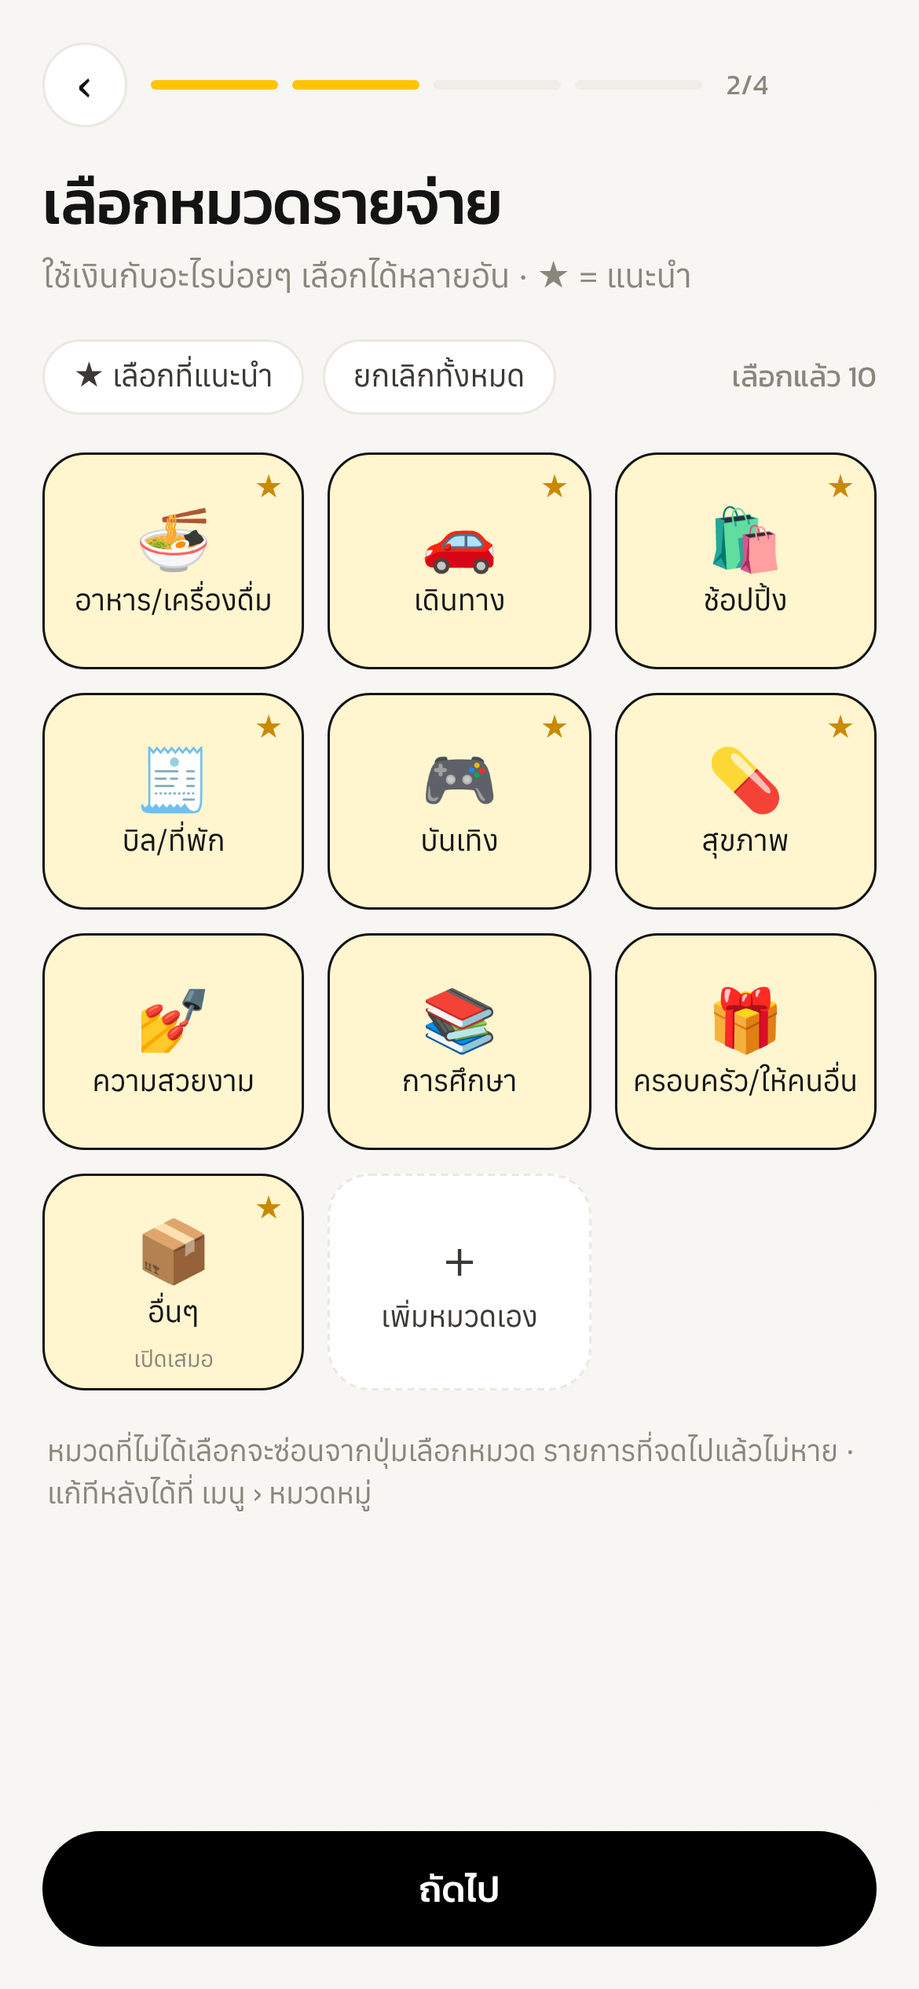
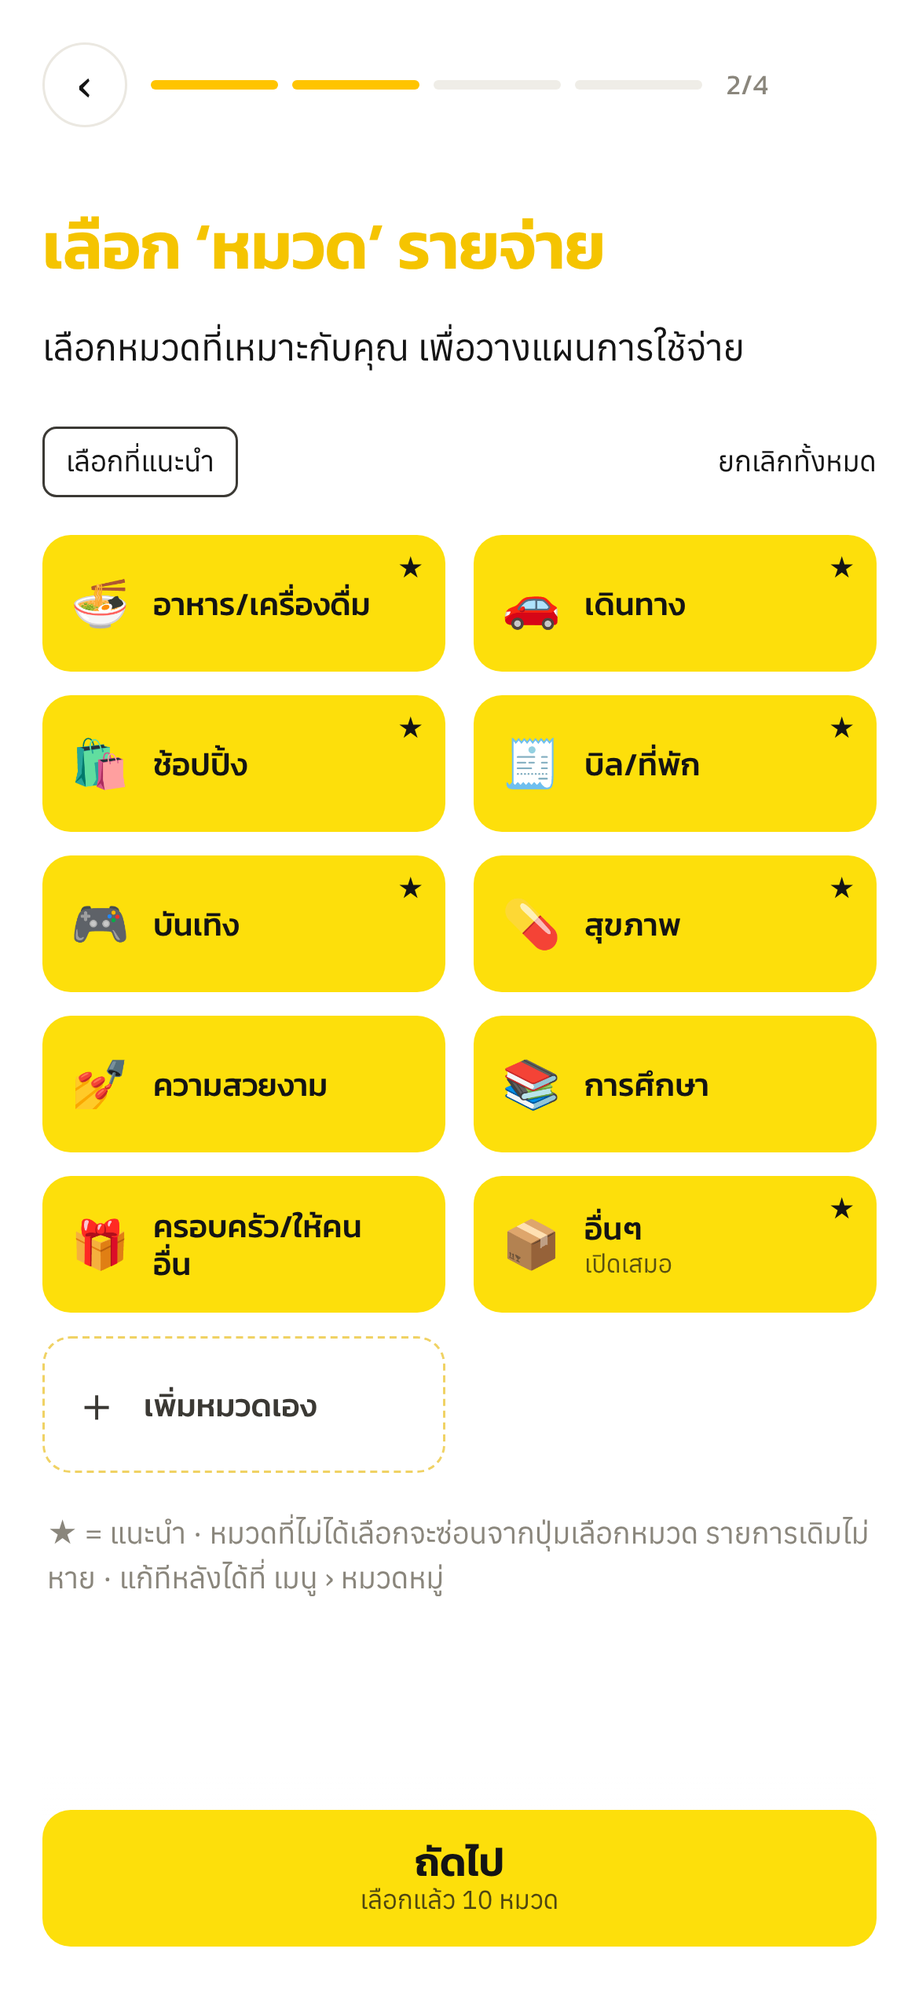
Onboarding source and category screens follow the new design
- Source step: full yellow panel, white cards with brand logos (Simple Icons, CC0)
- Category steps: two-column cards, yellow (expense) or black (income) when picked,
  pale yellow when not, big footer button with the picked count

Claude-Session: https://claude.ai/code/session_015tPG4ihv4SHZFFUdV6FxEj

diff --git a/public/js/onboard.js b/public/js/onboard.js
@@ -4,13 +4,25 @@ import { money } from '../core/format.js';
 
 const esc = (s) => String(s ?? '').replace(/[&<>"']/g, (c) => ({ '&': '&amp;', '<': '&lt;', '>': '&gt;', '"': '&quot;', "'": '&#39;' })[c]);
 
+// โลโก้ช่องทาง (Simple Icons CC0 + สีแบรนด์) วาดเป็น SVG ในกรอบ 48×48
+const TT = 'M12.525.02c1.31-.02 2.61-.01 3.91-.02.08 1.53.63 3.09 1.75 4.17 1.12 1.11 2.7 1.62 4.24 1.79v4.03c-1.44-.05-2.89-.35-4.2-.97-.57-.26-1.1-.59-1.62-.93-.01 2.92.01 5.84-.02 8.75-.08 1.4-.54 2.79-1.35 3.94-1.31 1.92-3.58 3.17-5.91 3.21-1.43.08-2.86-.31-4.08-1.03-2.02-1.19-3.44-3.37-3.65-5.71-.02-.5-.03-1-.01-1.49.18-1.9 1.12-3.72 2.58-4.96 1.66-1.44 3.98-2.13 6.15-1.72.02 1.48-.04 2.96-.04 4.44-.99-.32-2.15-.23-3.02.37-.63.41-1.11 1.04-1.36 1.75-.21.51-.15 1.07-.14 1.61.24 1.64 1.82 3.02 3.5 2.87 1.12-.01 2.19-.66 2.77-1.61.19-.33.4-.67.41-1.06.1-1.79.06-3.57.07-5.36.01-4.03-.01-8.05.02-12.07z';
+const IG = 'M7.0301.084c-1.2768.0602-2.1487.264-2.911.5634-.7888.3075-1.4575.72-2.1228 1.3877-.6652.6677-1.075 1.3368-1.3802 2.127-.2954.7638-.4956 1.6365-.552 2.914-.0564 1.2775-.0689 1.6882-.0626 4.947.0062 3.2586.0206 3.6671.0825 4.9473.061 1.2765.264 2.1482.5635 2.9107.308.7889.72 1.4573 1.388 2.1228.6679.6655 1.3365 1.0743 2.1285 1.38.7632.295 1.6361.4961 2.9134.552 1.2773.056 1.6884.069 4.9462.0627 3.2578-.0062 3.668-.0207 4.9478-.0814 1.28-.0607 2.147-.2652 2.9098-.5633.7889-.3086 1.4578-.72 2.1228-1.3881.665-.6682 1.0745-1.3378 1.3795-2.1284.2957-.7632.4966-1.636.552-2.9124.056-1.2809.0692-1.6898.063-4.948-.0063-3.2583-.021-3.6668-.0817-4.9465-.0607-1.2797-.264-2.1487-.5633-2.9117-.3084-.7889-.72-1.4568-1.3876-2.1228C21.2982 1.33 20.628.9208 19.8378.6165 19.074.321 18.2017.1197 16.9244.0645 15.6471.0093 15.236-.005 11.977.0014 8.718.0076 8.31.0215 7.0301.0839m.1402 21.6932c-1.17-.0509-1.8053-.2453-2.2287-.408-.5606-.216-.96-.4771-1.3819-.895-.422-.4178-.6811-.8186-.9-1.378-.1644-.4234-.3624-1.058-.4171-2.228-.0595-1.2645-.072-1.6442-.079-4.848-.007-3.2037.0053-3.583.0607-4.848.05-1.169.2456-1.805.408-2.2282.216-.5613.4762-.96.895-1.3816.4188-.4217.8184-.6814 1.3783-.9003.423-.1651 1.0575-.3614 2.227-.4171 1.2655-.06 1.6447-.072 4.848-.079 3.2033-.007 3.5835.005 4.8495.0608 1.169.0508 1.8053.2445 2.228.408.5608.216.96.4754 1.3816.895.4217.4194.6816.8176.9005 1.3787.1653.4217.3617 1.056.4169 2.2263.0602 1.2655.0739 1.645.0796 4.848.0058 3.203-.0055 3.5834-.061 4.848-.051 1.17-.245 1.8055-.408 2.2294-.216.5604-.4763.96-.8954 1.3814-.419.4215-.8181.6811-1.3783.9-.4224.1649-1.0577.3617-2.2262.4174-1.2656.0595-1.6448.072-4.8493.079-3.2045.007-3.5825-.006-4.848-.0608M16.953 5.5864A1.44 1.44 0 1 0 18.39 4.144a1.44 1.44 0 0 0-1.437 1.4424M5.8385 12.012c.0067 3.4032 2.7706 6.1557 6.173 6.1493 3.4026-.0065 6.157-2.7701 6.1506-6.1733-.0065-3.4032-2.771-6.1565-6.174-6.1498-3.403.0067-6.156 2.771-6.1496 6.1738M8 12.0077a4 4 0 1 1 4.008 3.9921A3.9996 3.9996 0 0 1 8 12.0077';
+const SRC_ICON = {
+  friend: '<svg viewBox="0 0 48 48" fill="none" stroke="#f5c400" stroke-width="3" stroke-linecap="round"><circle cx="20" cy="17" r="6.5"/><circle cx="30.5" cy="14.5" r="5"/><path d="M8 38c0-7.2 5.4-12 12-12s12 4.8 12 12"/><path d="M29 24.5c6.2-.6 11 3.6 11 10.5"/></svg>',
+  tiktok: `<svg viewBox="0 0 48 48"><rect width="48" height="48" rx="11" fill="#161823"/><g transform="translate(12 11.5) scale(1.05)"><path d="${TT}" fill="#25F4EE" transform="translate(-.7 -.5)"/><path d="${TT}" fill="#FE2C55" transform="translate(.7 .5)"/><path d="${TT}" fill="#fff"/></g></svg>`,
+  facebook: '<svg viewBox="0 0 48 48"><rect width="48" height="48" rx="11" fill="#1877F2"/><path fill="#fff" d="M31.5 15.2h-3.4c-1.3 0-1.9.8-1.9 2v3.4h5.2l-.8 5.3h-4.4V42h-5.9V25.9H17v-5.3h3.3v-3.9c0-4.6 2.7-7.3 7-7.3 1.9 0 3.6.2 4.2.3z"/></svg>',
+  instagram: `<svg viewBox="0 0 48 48"><defs><radialGradient id="ig-g" cx=".3" cy="1.07" r="1.2"><stop offset="0" stop-color="#FDD86C"/><stop offset=".25" stop-color="#FB8B2E"/><stop offset=".5" stop-color="#E1306C"/><stop offset=".75" stop-color="#C13584"/><stop offset="1" stop-color="#5B51D8"/></radialGradient></defs><rect width="48" height="48" rx="11" fill="url(#ig-g)"/><path d="${IG}" fill="#fff" transform="translate(10 10) scale(1.1667)"/></svg>`,
+  google: '<svg viewBox="0 0 24 24"><path fill="#4285F4" d="M23.49 12.27c0-.79-.07-1.54-.19-2.27H12v4.51h6.47c-.29 1.48-1.14 2.73-2.4 3.58v3h3.86c2.26-2.09 3.56-5.17 3.56-8.82z"/><path fill="#34A853" d="M12 24c3.24 0 5.95-1.08 7.93-2.91l-3.86-3c-1.08.72-2.45 1.16-4.07 1.16-3.13 0-5.78-2.11-6.73-4.96H1.29v3.09C3.26 21.3 7.31 24 12 24z"/><path fill="#FBBC05" d="M5.27 14.29c-.25-.72-.38-1.49-.38-2.29s.14-1.57.38-2.29V6.62H1.29C.47 8.24 0 10.06 0 12s.47 3.76 1.29 5.38l3.98-3.09z"/><path fill="#EA4335" d="M12 4.75c1.77 0 3.35.61 4.6 1.8l3.42-3.42C17.95 1.19 15.24 0 12 0 7.31 0 3.26 2.7 1.29 6.62l3.98 3.09c.95-2.85 3.6-4.96 6.73-4.96z"/></svg>',
+  other: '<svg viewBox="0 0 48 48" fill="none" stroke="#f5c400" stroke-width="3"><circle cx="11" cy="24" r="4.5"/><circle cx="24" cy="24" r="4.5"/><circle cx="37" cy="24" r="4.5"/></svg>',
+};
+
 export const HEARD = [
-  ['friend', 'คนรู้จัก', '👥'],
-  ['tiktok', 'TikTok', '🎵'],
-  ['facebook', 'Facebook', '📘'],
-  ['instagram', 'Instagram', '📸'],
-  ['google', 'Google', '🔎'],
-  ['other', 'อื่นๆ', '✨'],
+  ['friend', 'คนรู้จัก'],
+  ['tiktok', 'TikTok'],
+  ['facebook', 'Facebook'],
+  ['instagram', 'Instagram'],
+  ['google', 'Google'],
+  ['other', 'อื่นๆ'],
 ];
 const FALLBACK = { expense: 'other', income: 'other_income' };
 const CYCLES = [1, 15, 25, 26, 28, 30];
@@ -93,9 +105,9 @@ const FEATURES = [
 
 function catChip(c, on, type) {
   const fixed = c.id === FALLBACK[type];
-  return `<button class="ob-cat ${on ? 'is-on' : ''} ${fixed ? 'is-fixed' : ''}" data-act="obcat" data-id="${esc(c.id)}" aria-pressed="${on}" ${fixed ? 'disabled title="หมวดสำรอง เปิดไว้เสมอ"' : ''}>
-    ${c.recommended ? '<em class="ob-star" aria-label="แนะนำ">★</em>' : ''}${c.custom ? `<em class="ob-del" data-act="obdelcat" data-id="${esc(c.id)}" aria-label="ลบหมวด ${esc(c.name)}">✕</em>` : ''}
-    <span class="ob-emo">${esc(c.emoji)}</span><span class="ob-name">${esc(c.name)}</span></button>`;
+  return `<button class="ob-cat ${on ? 'is-on' : ''} ${fixed ? 'is-fixed' : ''}" data-act="obcat" data-id="${esc(c.id)}" aria-pressed="${on}" ${fixed ? 'aria-disabled="true" title="หมวดสำรอง เปิดไว้เสมอ"' : ''}>
+    <span class="ob-emo" aria-hidden="true">${esc(c.emoji)}</span><span class="ob-name">${esc(c.name)}${fixed ? '<small>เปิดเสมอ</small>' : ''}</span>
+    ${c.recommended ? '<em class="ob-star" aria-label="แนะนำ">★</em>' : ''}${c.custom ? `<em class="ob-del" data-act="obdelcat" data-id="${esc(c.id)}" role="button" aria-label="ลบหมวด ${esc(c.name)}">✕</em>` : ''}</button>`;
 }
 
 function catStep(ob, data, type) {
@@ -104,16 +116,17 @@ function catStep(ob, data, type) {
   const own = ob.custom.filter((c) => c.type === type).map((c) => ({ ...c, custom: true }));
   const list = [...base.filter((c) => c.id !== FALLBACK[type]), ...own, base.find((c) => c.id === FALLBACK[type])];
   const count = list.filter((c) => c.custom || ob.enabled.has(c.id)).length;
-  return `${head(ob, inc ? 'เลือกหมวดรายรับ' : 'เลือกหมวดรายจ่าย', `${inc ? 'เงินเข้ามาจากทางไหนบ้าง' : 'ใช้เงินกับอะไรบ่อยๆ'} เลือกได้หลายอัน · ★ = แนะนำ`)}
-    <div class="ob-tools"><button class="mt-chip" data-act="obrec" data-v="${type}">★ เลือกที่แนะนำ</button><button class="mt-chip" data-act="obnone" data-v="${type}">ยกเลิกทั้งหมด</button><span class="mt-sub num">เลือกแล้ว ${count}</span></div>
-    <div class="ob-cats ${inc ? 'is-inc' : ''}">${list.map((c) => catChip(c, c.custom || ob.enabled.has(c.id), type)).join('')}
+  const last = inc && ob.mode === 'cats';
+  return `${head(ob, `เลือก ‘หมวด’ ${inc ? 'รายรับ' : 'รายจ่าย'}`, inc ? 'เลือกหมวดที่เหมาะกับคุณ เพื่อติดตามรายได้' : 'เลือกหมวดที่เหมาะกับคุณ เพื่อวางแผนการใช้จ่าย')}
+    <div class="ob-tools"><button class="ob-tool-rec" data-act="obrec" data-v="${type}">เลือกที่แนะนำ</button><button class="ob-tool-none" data-act="obnone" data-v="${type}">ยกเลิกทั้งหมด</button></div>
+    <div class="ob-cats ${inc ? 'is-inc' : 'is-exp'}">${list.map((c) => catChip(c, c.custom || ob.enabled.has(c.id), type)).join('')}
       ${
         ob.adding === type
           ? `<form class="ob-add" data-form="obcat"><input name="emoji" aria-label="อีโมจิ" placeholder="${inc ? '💰' : '🏷'}" maxlength="4"><input name="name" aria-label="ชื่อหมวด" placeholder="ชื่อหมวด เช่น ${inc ? 'ค่าเช่าห้อง' : 'ค่าแมว'}" maxlength="24" required><button class="mt-btn-s" type="submit">เพิ่ม</button></form>`
-          : `<button class="ob-cat is-new" data-act="obadd" data-v="${type}"><span class="ob-emo">＋</span><span class="ob-name">เพิ่มหมวดเอง</span></button>`
+          : `<button class="ob-cat is-new" data-act="obadd" data-v="${type}"><span class="ob-emo" aria-hidden="true">＋</span><span class="ob-name">เพิ่มหมวดเอง</span></button>`
       }</div>
-    <p class="mt-sub ob-note">หมวดที่ไม่ได้เลือกจะซ่อนจากปุ่มเลือกหมวด รายการที่จดไปแล้วไม่หาย · แก้ทีหลังได้ที่ เมนู › หมวดหมู่</p>
-    ${foot(inc && ob.mode === 'cats' ? 'บันทึก' : 'ถัดไป')}`;
+    <p class="mt-sub ob-note">★ = แนะนำ · หมวดที่ไม่ได้เลือกจะซ่อนจากปุ่มเลือกหมวด รายการเดิมไม่หาย · แก้ทีหลังได้ที่ เมนู › หมวดหมู่</p>
+    <footer class="ob-foot"><button class="ob-bigbtn ${inc ? 'is-ink' : 'is-yellow'}" data-act="obnext">${last ? 'บันทึก' : 'ถัดไป'}<small>เลือกแล้ว ${count} หมวด</small></button></footer>`;
 }
 
 const chip = (act, v, label, on) => `<button class="mt-chip ${on ? 'is-on' : ''}" data-act="${act}" data-v="${v}">${label}</button>`;
@@ -127,9 +140,9 @@ export function onboardHTML(ob, data, { logoUrl = '', moods = {} } = {}) {
       <div class="ob-feats">${FEATURES.map((f) => `<article class="ob-feat is-${f.side}"><div class="ob-feat-art" aria-hidden="true">${f.art}</div><div class="ob-feat-t"><h2>${f.t}</h2><p>${f.d}</p></div></article>`).join('')}</div>
       ${foot('เริ่มตั้งค่า →')}`;
   } else if (step === 'heard') {
-    inner = `${head(ob, 'รู้จักหมุนตังค์จากช่องทางไหน?', 'ช่วยบอกหน่อย จะได้รู้ว่าควรไปทักทายเพื่อนใหม่ที่ไหน')}
-      <div class="ob-opts">${HEARD.map(([v, l, e]) => `<button class="ob-opt ${ob.heard === v ? 'is-on' : ''}" data-act="obheard" data-v="${v}" aria-pressed="${ob.heard === v}"><span>${e}</span>${l}</button>`).join('')}</div>
-      ${foot('ถัดไป', { disabled: !ob.heard, skip: 'ข้าม' })}`;
+    inner = `<div class="ob-panel">${head(ob, 'รู้จักหมุนตังค์ช่องไหน?', 'ช่วยบอกหน่อยจะได้หมุนตังค์ไปพร้อมกัน')}
+      <div class="ob-opts">${HEARD.map(([v, l]) => `<button class="ob-opt ${ob.heard === v ? 'is-on' : ''}" data-act="obheard" data-v="${v}" aria-pressed="${ob.heard === v}"><span class="ob-opt-ic" aria-hidden="true">${SRC_ICON[v]}</span>${l}</button>`).join('')}</div>
+      ${foot('ถัดไป', { disabled: !ob.heard, skip: 'ข้าม' })}</div>`;
   } else if (step === 'expense' || step === 'income') {
     inner = catStep(ob, data, step);
   } else if (step === 'setup') {

diff --git a/public/css/app.css b/public/css/app.css
@@ -568,8 +568,6 @@ button.mt-budgetline { border: 0; background: none; padding: 0; text-align: left
 /* ยินดีต้อนรับ (ตามดีไซน์: พื้นขาว · นายหัวหมุนตาหมุน · การ์ดเหลืองข้อความขาว สลับซ้าย-ขวา) */
 .ob-hello { text-align: center; display: flex; flex-direction: column; align-items: center; gap: 4px; padding-top: 6px; }
 .ob-mascot { width: 92px; height: 92px; object-fit: contain; margin-bottom: 6px; }
-.mt-app[data-tab='onboard']:has(.ob-welcome), .mt-main:has(.ob-welcome) { background: #fff; }
-.ob-welcome .ob-foot { background: linear-gradient(to bottom, rgba(255, 255, 255, 0), #fff 30%); }
 .ob-hello-w { padding-top: 0; gap: 2px; }
 .ob-hello-w .ob-mascot { width: 168px; height: 168px; margin: 0 0 2px; }
 .ob-hello-w h1 { font-size: 21px; font-weight: 600; }
@@ -615,33 +613,63 @@ button.mt-budgetline { border: 0; background: none; padding: 0; text-align: left
 .ob-art-coins { position: absolute; left: 92px; bottom: 10px; display: flex; flex-direction: column-reverse; }
 .ob-art-coins i { width: 34px; height: 12px; margin-top: -4px; border-radius: 50%; background: #ffc400; border: 2.5px solid var(--ink); }
 
-/* รู้จักจากไหน */
-.ob-opts { display: grid; grid-template-columns: repeat(2, 1fr); gap: 10px; }
-.ob-opt { display: flex; flex-direction: column; align-items: center; gap: 6px; padding: 18px 10px; border-radius: var(--r-md); border: 1.5px solid var(--border); background: var(--card); font-size: 14.5px; font-weight: 500; color: var(--ink); }
-.ob-opt span { font-size: 26px; }
-.ob-opt.is-on { border-color: var(--ink); background: var(--accent-soft); }
+/* หน้าติดตั้งครั้งแรกทั้งชุด: พื้นขาว */
+.mt-app[data-tab='onboard'], .mt-main.ob-main { background: #fff; }
+.ob-foot { background: linear-gradient(to bottom, rgba(255, 255, 255, 0), #fff 30%); }
 
-/* เลือกหมวด */
-.ob-tools { display: flex; flex-wrap: wrap; align-items: center; gap: 8px; }
-.ob-tools .mt-sub { margin-left: auto; }
-.ob-cats { display: grid; grid-template-columns: repeat(3, minmax(0, 1fr)); gap: 10px; }
-.ob-cat { position: relative; display: flex; flex-direction: column; align-items: center; justify-content: center; gap: 6px; min-height: 92px; padding: 12px 6px 10px; border-radius: var(--r-md); border: 1.5px solid var(--border); background: var(--card); color: var(--muted); text-align: center; }
-.ob-emo { font-size: 26px; line-height: 1; filter: grayscale(1); opacity: 0.55; }
-.ob-name { font-size: 12.5px; line-height: 1.25; }
-.ob-cat.is-on { border-color: var(--ink); background: var(--accent-soft); color: var(--ink); }
-.ob-cats.is-inc .ob-cat.is-on { border-color: var(--green); background: #e9f5ee; }
+/* รู้จักจากไหน (ตามดีไซน์: แผ่นเหลืองเต็มจอ · การ์ดขาว 2 คอลัมน์ · โลโก้แบรนด์) */
+.mt-main.ob-main:has(.ob-heard) { padding: 12px; }
+.ob-heard { min-height: 100%; }
+.ob-panel { --y: #fddf0b; flex: 1; display: flex; flex-direction: column; gap: 16px; background: var(--y); border-radius: 14px; padding: 14px 22px 0; }
+.ob-panel .ob-back { background: rgba(255, 255, 255, 0.7); border-color: transparent; }
+.ob-panel .ob-progress i { background: rgba(255, 255, 255, 0.55); }
+.ob-panel .ob-progress i.is-on { background: var(--ink); }
+.ob-panel .ob-progress span { color: var(--ink-2); }
+.ob-panel .ob-title { text-align: center; margin-top: 30px; }
+.ob-panel .ob-title h1 { font-size: 24px; font-weight: 600; }
+.ob-panel .ob-title p { color: var(--ink); font-size: 15.5px; margin-top: 12px; }
+.ob-opts { display: grid; grid-template-columns: repeat(2, 1fr); gap: 18px 30px; margin-top: 6px; }
+.ob-opt { position: relative; display: flex; flex-direction: column; align-items: center; justify-content: center; gap: 12px; height: 120px; padding: 10px; border-radius: 12px; border: 3px solid transparent; background: #fff; font-family: var(--font-display); font-size: 15px; font-weight: 500; color: var(--ink); }
+.ob-opt-ic { width: 48px; height: 48px; display: grid; place-items: center; }
+.ob-opt-ic svg { width: 48px; height: 48px; display: block; }
+.ob-opt.is-on { border-color: var(--ink); }
+.ob-opt.is-on::after { content: '✓'; position: absolute; top: 8px; right: 8px; width: 22px; height: 22px; border-radius: 50%; background: var(--ink); color: #fff; font-size: 13px; display: grid; place-items: center; }
+.ob-panel .ob-foot { background: linear-gradient(to bottom, rgba(253, 223, 11, 0), var(--y) 30%); }
+.ob-panel .ob-skip { color: var(--ink-2); }
+.ob-panel .ob-next:disabled { background: rgba(20, 20, 20, 0.25); color: #fff; }
+
+/* เลือกหมวด (ตามดีไซน์: หัวข้อใหญ่ · การ์ด 2 คอลัมน์ · เลือก = เหลืองเข้ม/ดำ · ไม่เลือก = เหลืองอ่อน) */
+.ob-expense .ob-title h1, .ob-income .ob-title h1 { font-size: 28px; font-weight: 600; margin-top: 18px; }
+.ob-expense .ob-title h1 { color: #f5c400; }
+.ob-expense .ob-title p, .ob-income .ob-title p { color: var(--ink); font-size: 15.5px; margin-top: 14px; }
+.ob-tools { display: flex; align-items: center; justify-content: space-between; gap: 8px; margin-top: 6px; }
+.ob-tool-rec { border: 1px solid var(--ink-2); background: #fff; border-radius: 6px; padding: 5px 9px; font-size: 12px; color: var(--ink); }
+.ob-tool-rec:hover { background: var(--ink); color: #fff; }
+.ob-tool-none { border: 0; background: none; font-size: 12px; color: var(--ink); padding: 5px 0; }
+.ob-cats { --on: #fddf0b; --on-ink: var(--ink); --off: #fff6c2; display: grid; grid-template-columns: repeat(2, minmax(0, 1fr)); gap: 10px 12px; }
+.ob-cats.is-inc { --on: #000; --on-ink: #fff; }
+.ob-cat { position: relative; display: flex; align-items: center; gap: 10px; min-height: 58px; padding: 8px 20px 8px 12px; border-radius: 12px; border: 0; background: var(--off); color: rgba(20, 20, 20, 0.55); text-align: left; transition: background 0.15s, color 0.15s; }
+.ob-cat.is-on { background: var(--on); color: var(--on-ink); }
+.ob-emo { font-size: 20px; line-height: 1; flex: 0 0 auto; filter: grayscale(1); opacity: 0.5; }
 .ob-cat.is-on .ob-emo { filter: none; opacity: 1; }
+.ob-name { font-family: var(--font-display); font-size: 13.5px; font-weight: 500; line-height: 1.2; display: flex; flex-direction: column; min-width: 0; }
+.ob-name small { font-family: var(--font-body); font-size: 10.5px; font-weight: 400; opacity: 0.7; }
 .ob-cat.is-fixed { cursor: default; }
-.ob-cat.is-fixed::after { content: 'เปิดเสมอ'; position: absolute; bottom: 4px; font-size: 9.5px; color: var(--muted); }
-.ob-cat.is-fixed .ob-name { margin-bottom: 8px; }
-.ob-cat.is-new { border-style: dashed; color: var(--ink-2); }
-.ob-cat.is-new .ob-emo { filter: none; opacity: 1; font-size: 22px; }
-.ob-star { position: absolute; top: 5px; right: 8px; font-style: normal; font-size: 12px; color: var(--amber); }
-.ob-del { position: absolute; top: 4px; right: 6px; font-style: normal; font-size: 11px; width: 20px; height: 20px; display: grid; place-items: center; border-radius: 50%; background: var(--track); color: var(--ink-2); }
+.ob-star { position: absolute; top: 6px; right: 9px; font-style: normal; font-size: 11px; color: #c98a00; }
+.ob-cats.is-inc .ob-cat.is-on .ob-star { color: #fddf0b; }
+.ob-cats.is-exp .ob-cat.is-on .ob-star { color: var(--ink); }
+.ob-del { position: absolute; top: 50%; right: 8px; margin-top: -11px; font-style: normal; font-size: 11px; width: 22px; height: 22px; display: grid; place-items: center; border-radius: 50%; background: rgba(255, 255, 255, 0.8); color: var(--ink); }
+.ob-cat.is-new { background: #fff; border: 1.5px dashed #f0d264; color: var(--ink-2); }
+.ob-cat.is-new .ob-emo { filter: none; opacity: 1; font-size: 20px; }
 .ob-add { grid-column: 1 / -1; display: grid; grid-template-columns: 56px 1fr auto; gap: 8px; }
-.ob-add input { width: 100%; padding: 11px 12px; border-radius: var(--r-sm); border: 1px solid var(--ink); background: var(--card); min-width: 0; }
+.ob-add input { width: 100%; padding: 11px 12px; border-radius: 12px; border: 1px solid var(--ink); background: #fff; min-width: 0; }
 .ob-add input[name='emoji'] { text-align: center; font-size: 18px; padding: 8px; }
 .ob-note { padding: 0 2px; }
+.ob-bigbtn { flex: 1; height: 58px; border: 0; border-radius: 12px; font-family: var(--font-display); font-size: 17px; font-weight: 600; display: flex; flex-direction: column; align-items: center; justify-content: center; line-height: 1.15; }
+.ob-bigbtn small { font-family: var(--font-body); font-size: 11px; font-weight: 400; opacity: 0.75; }
+.ob-bigbtn.is-yellow { background: #fddf0b; color: var(--ink); }
+.ob-bigbtn.is-ink { background: #000; color: #fff; }
+.ob-bigbtn:active { transform: scale(0.99); }
 
 /* รอบเดือน · งบ · เตือน */
 .ob-sec { background: var(--card); border: 1px solid var(--border); border-radius: var(--r-md); padding: 16px; display: flex; flex-direction: column; gap: 8px; }
@@ -667,7 +695,7 @@ select.ob-sel { appearance: none; padding-right: 14px; }
 
 @container mt (min-width: 640px) {
   .mt-main.ob-main { max-width: 600px; }
-  .ob-cats { grid-template-columns: repeat(4, minmax(0, 1fr)); }
+  .ob-cats { grid-template-columns: repeat(3, minmax(0, 1fr)); }
   .ob-opts { grid-template-columns: repeat(3, 1fr); }
   .ob-feat h2 { font-size: 28px; }
   .ob-feat p { font-size: 13.5px; }
